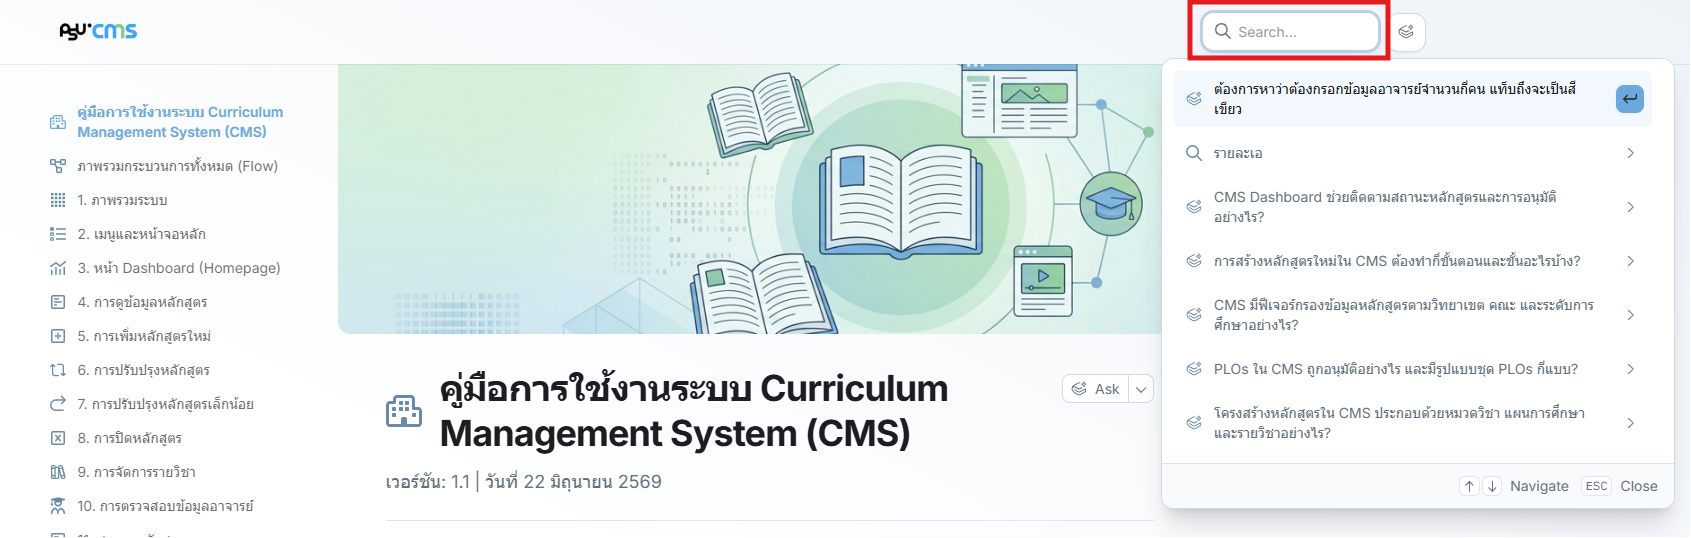
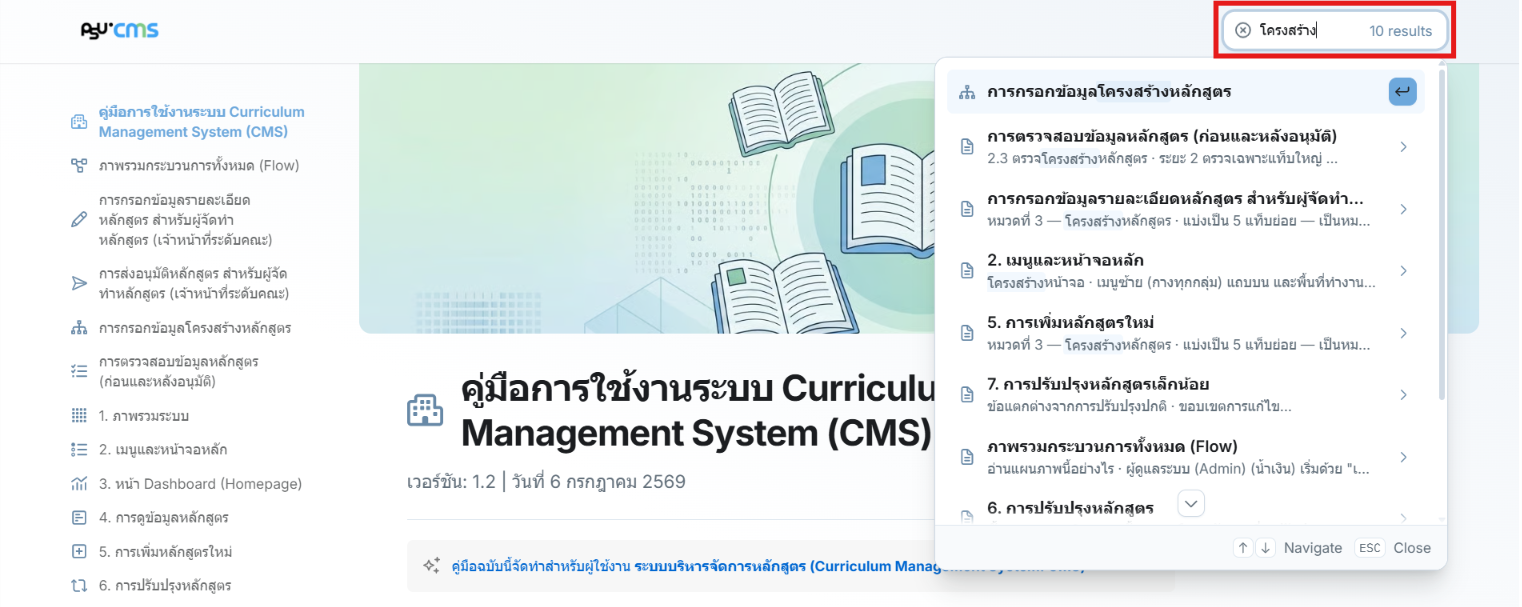
Update version description in README.md

Changed region(s): [[0.0309, 0.0, 0.9882, 1.0], [0.0309, 0.0297, 0.1235, 0.0892]]

diff --git a/README.md b/README.md
@@ -1,5 +1,5 @@
 ---
-description: 'เวอร์ชัน: 1.2 | วันที่ 6 กรกฎาคม 2569'
+description: 'เวอร์ชันอัปเดตวันที่ 2 พฤศจิกายน 2569'
 icon: apartment
 cover: .gitbook/assets/cms-login-overview.png.png
 coverY: 0
